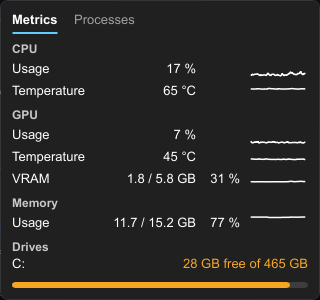
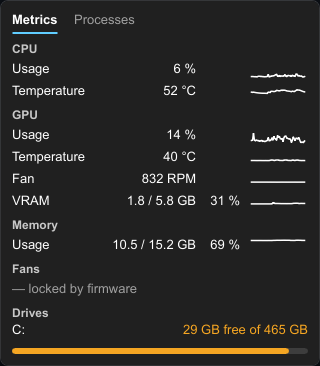
docs: README for 0.4.0 (fan speeds)

diff --git a/README.md b/README.md
@@ -5,8 +5,9 @@
 <h1 align="center">Computer Stats</h1>
 
 <p align="center">
-  A tiny Windows tray app that shows how your PC is doing — CPU, GPU, memory, disks and
-  temperatures — one click away, and lets you end the program that is slowing it down.
+  A tiny Windows tray app that shows how your PC is doing — CPU, GPU, memory, disks,
+  temperatures and fan speeds — one click away, and lets you end the program that is slowing it
+  down.
 </p>
 
 <p align="center">
@@ -14,7 +15,7 @@
 </p>
 
 <p align="center">
-  <img src="docs/images/panel-metrics.png" width="320" alt="The Computer Stats Panel: CPU usage and temperature, GPU usage, temperature and VRAM, memory and disk space, each with a 60-second graph">
+  <img src="docs/images/panel-metrics.png" width="320" alt="The Computer Stats Panel: CPU usage and temperature, GPU usage, temperature, fan speed and VRAM, memory, motherboard fans and disk space, each with a 60-second graph">
 </p>
 
 ## Why
@@ -35,10 +36,10 @@ bloated or full of ads. Computer Stats lives in the system tray, uses about **4 
   notice it without opening anything. No pop-ups, no sounds.
 - **Processes tab** — every running program with its icon, CPU and memory use, sorted by CPU or
   memory. Click **End**, then **Confirm?**, to close a program that is stuck or hogging the PC.
-- **Desktop widget (optional)** — CPU, GPU (with its fan) and memory with their graphs, on a see-through card
-  on your wallpaper. Turn it on from the tray menu and drag it anywhere. It stays behind your
-  windows, shows up when you go to the desktop (Win+D), and comes back where you left it. Off by
-  default.
+- **Desktop widget (optional)** — CPU, GPU (with its fan) and memory with their graphs, on a
+  see-through card on your wallpaper. Turn it on from the tray menu and drag it anywhere. It stays
+  behind your windows, shows up when you go to the desktop (Win+D), and comes back where you left
+  it. Off by default.
 - **Start with Windows** — one click in the tray menu; starts at sign-in without a UAC prompt.
 - **Light and dark theme**, any taskbar position, multiple monitors and high-DPI screens.
 - **Native and lightweight** — written in Rust with a natively rendered UI: no browser engine, no
@@ -51,12 +52,14 @@ bloated or full of ads. Computer Stats lives in the system tray, uses about **4 
 2. Run it. Windows may show **"Windows protected your PC"** because the installer is not
    code-signed: click **More info → Run anyway**.
 3. Keep **"Install PawnIO"** ticked if it is offered — it is the driver that lets the app read the
-   CPU temperature (downloaded from its official publisher and verified).
+   CPU temperature and the motherboard's fans (downloaded from its official publisher and
+   verified).
 4. Computer Stats starts and its icon appears in the tray (it may hide under the **^** arrow; drag
    it to the taskbar to keep it visible).
 
 Prefer not to install? Download **`ComputerStats-<version>-portable.zip`**, unzip it anywhere and
-run `computer-stats.exe` (install PawnIO from [pawnio.eu](https://pawnio.eu) for CPU temperature).
+run `computer-stats.exe` (install PawnIO from [pawnio.eu](https://pawnio.eu) for CPU temperature
+and motherboard fans).
 
 **Requirements:** Windows 10 (1809) or Windows 11, 64-bit.
 
@@ -83,6 +86,8 @@ run `computer-stats.exe` (install PawnIO from [pawnio.eu](https://pawnio.eu) for
 | CPU temperature | 80 °C | 90 °C |
 | GPU temperature | 80 °C | 87 °C |
 
+Fan speeds never turn amber or red: a fan's speed alone does not say whether something is wrong.
+
 ## What your PC needs for each value
 
 | Value | Works with |
@@ -98,10 +103,11 @@ When something can't be read, the Panel shows `—` and the reason (`no GPU`, `d
 
 ### Why it asks for administrator rights
 
-Windows has no built-in way for programs to read the CPU's real temperature, so Computer Stats uses
-the signed **PawnIO** driver, which only works for programs running as administrator. That is the
-only reason the app asks for elevation. Turning on **Start with Windows** registers a scheduled
-task, so the app starts elevated at sign-in without a UAC prompt.
+Windows has no built-in way for programs to read the CPU's real temperature or the motherboard's
+fan speeds, so Computer Stats uses the signed **PawnIO** driver, which only works for programs
+running as administrator. That is the only reason the app asks for elevation. Turning on **Start
+with Windows** registers a scheduled task, so the app starts elevated at sign-in without a UAC
+prompt.
 
 ## Resource use
 
@@ -112,6 +118,7 @@ Measured on a Ryzen 9 7900 with Windows 11 and about 300 running processes:
 | Panel closed | ~4–5 MB | 0.04 % |
 | Panel open (Metrics) | ~4 MB | 0.03 % |
 | Panel open (Processes) | ~7 MB | 0.13 % |
+| Desktop widget on, Panel closed | ~11 MB | 0.06 % |
 | Download size | 5.9 MB installer · 9 MB executable | |
 
 ## Safety and privacy
@@ -122,6 +129,9 @@ Measured on a Ryzen 9 7900 with Windows 11 and about 300 running processes:
   can make Windows unstable or restart it. That is why every End needs a second click.
 - Before ending a process, the app checks it is still the same process it listed, so a recycled
   process ID can never make it close the wrong program.
+- **Fans are read-only.** The app never changes fan speeds, fan curves or any setting of the
+  motherboard's monitoring chip — not even the firmware's read lock. It shares the chip with tools
+  like HWiNFO through the same system-wide lock they use, so they do not disturb each other.
 
 ## Troubleshooting
 
@@ -169,8 +179,8 @@ cargo build --release
 
 The executable asks for elevation (`highestAvailable`), so run `cargo run` or the built exe from an
 **elevated** terminal — or set `$env:__COMPAT_LAYER = 'RunAsInvoker'` to run it without elevation
-(CPU temperature then shows `— not elevated`). For CPU temperature and motherboard fans during
-development, copy `AMDFamily17.bin` or `IntelMSR.bin`, and `LpcIO.bin`, from
+(CPU temperature and motherboard fans then show `— not elevated`). For CPU temperature and
+motherboard fans during development, copy `AMDFamily17.bin` or `IntelMSR.bin`, and `LpcIO.bin`, from
 [PawnIO.Modules](https://github.com/namazso/PawnIO.Modules/releases) next to the exe. To diagnose a
 board's monitoring chip, run `cargo run --example fan_spike -- path\to\LpcIO.bin` elevated
 (read-only).
@@ -219,7 +229,7 @@ has a specification, a plan, research notes and a task list before any code.
 | [`docs/adr/`](docs/adr/) | Architecture decisions (Rust + Slint, running elevated, GPU via Windows instead of NVML) |
 | [`specs/`](specs/) | One folder per feature: spec, plan, research, data model, UI contract, tasks, measurements |
 | `src/domain/` | Pure logic (warning levels, graphs, formatting, decoding) — unit-tested, no I/O |
-| `src/platform/` | The only place with `unsafe`: Win32, D3DKMT, PawnIO, process enumeration |
+| `src/platform/` | The only place with `unsafe`: Win32, D3DKMT, PawnIO, Super I/O (fans), process enumeration |
 | `ui/` | The Slint UI |
 
 | Feature | Spec |
